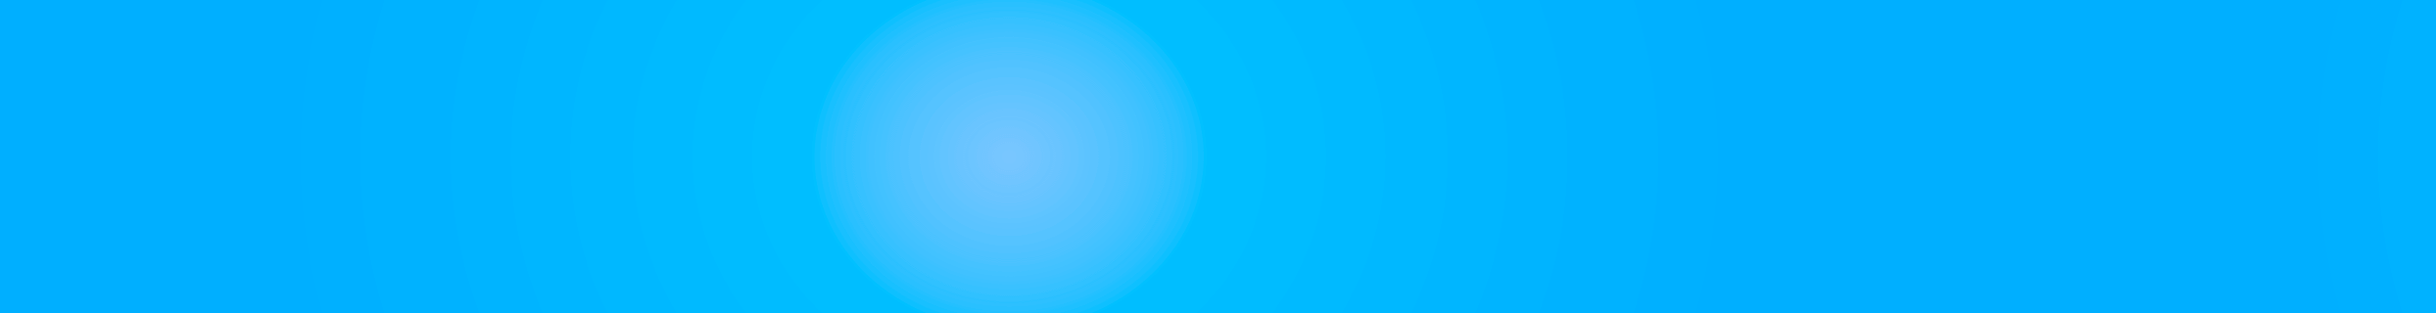
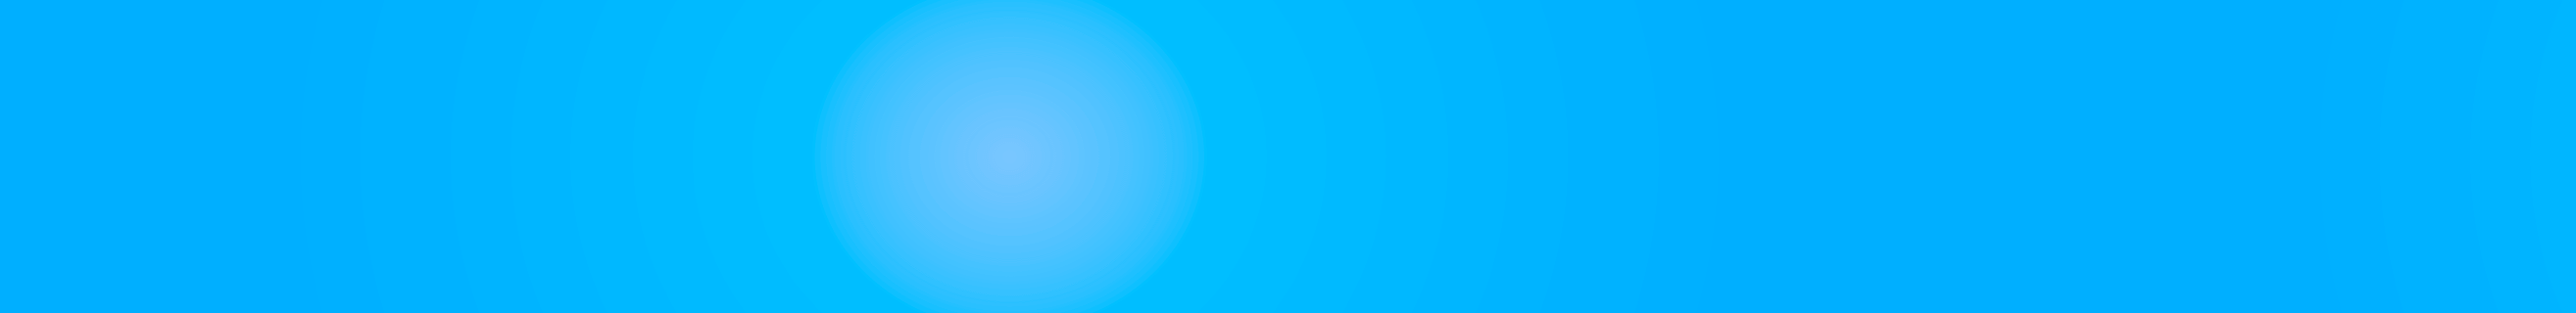
Nuevas imagenes y cambie la constante en GenericTrain.h (cLandscapeOffset) pero sigue teniendo problemas.
Fijate que en la linea 769, dice frame = landscape_1.frame y ahi el
tamaño sigue siendo 2487, cuando deberia ser (segun mis cuentas) 2629
(el tamaño de la imagen y el valor de cLandscapeOffset)

Changed region(s): [[0.3096, 0.0, 0.4954, 1.0]]

diff --git a/Classes/GenericTrain.m b/Classes/GenericTrain.m
@@ -763,8 +763,9 @@ gameStatus = cStatusGameIsOn;
     landscape_2.image = l.layer2;
     landscape_3.image = l.layer3;
     
-    int duration = (UI_USER_INTERFACE_IDIOM() == UIUserInterfaceIdiomPad) ? 80 : 40;
+    int duration = (UI_USER_INTERFACE_IDIOM() == UIUserInterfaceIdiomPad) ? 8 : 8;//80 : 40;
     int deltaWidth = [ImageManager windowWidth];
+    deltaWidth = 568;
 	CGRect frame = landscape_1.frame;
 	frame.origin.x = [self getLandscapeOffset] + deltaWidth;
 	landscape_1.frame = frame;
@@ -778,7 +779,7 @@ gameStatus = cStatusGameIsOn;
 	landscape_1.frame = frame;
 	[UIView commitAnimations];
 
-    duration = (UI_USER_INTERFACE_IDIOM() == UIUserInterfaceIdiomPad) ? 360 : 180;
+    duration = (UI_USER_INTERFACE_IDIOM() == UIUserInterfaceIdiomPad) ? 8 : 8; //360 : 180;
     frame = landscape_2.frame;
     frame.origin.x = [self getLandscapeOffset] + deltaWidth;
 	landscape_2.frame = frame;
@@ -792,7 +793,7 @@ gameStatus = cStatusGameIsOn;
 	landscape_2.frame = frame;
 	[UIView commitAnimations];
 
-    duration = (UI_USER_INTERFACE_IDIOM() == UIUserInterfaceIdiomPad) ? 500 : 250;
+    duration = (UI_USER_INTERFACE_IDIOM() == UIUserInterfaceIdiomPad) ? 8 : 8; //500 : 250;
     frame = landscape_3.frame;
     frame.origin.x = [self getLandscapeOffset] + deltaWidth;
 	landscape_3.frame = frame;

diff --git a/Classes/GenericTrain.h b/Classes/GenericTrain.h
@@ -31,7 +31,7 @@
 #define cStatusGameIsGoingToNextLevel 7
 #define cStatusHelpOn 8
 
-#define cLandscapeOffset -2487
+#define cLandscapeOffset -2629
 #define cLandscapeOffsetIpad -5968
 #define cHitsPerGame 7
 
